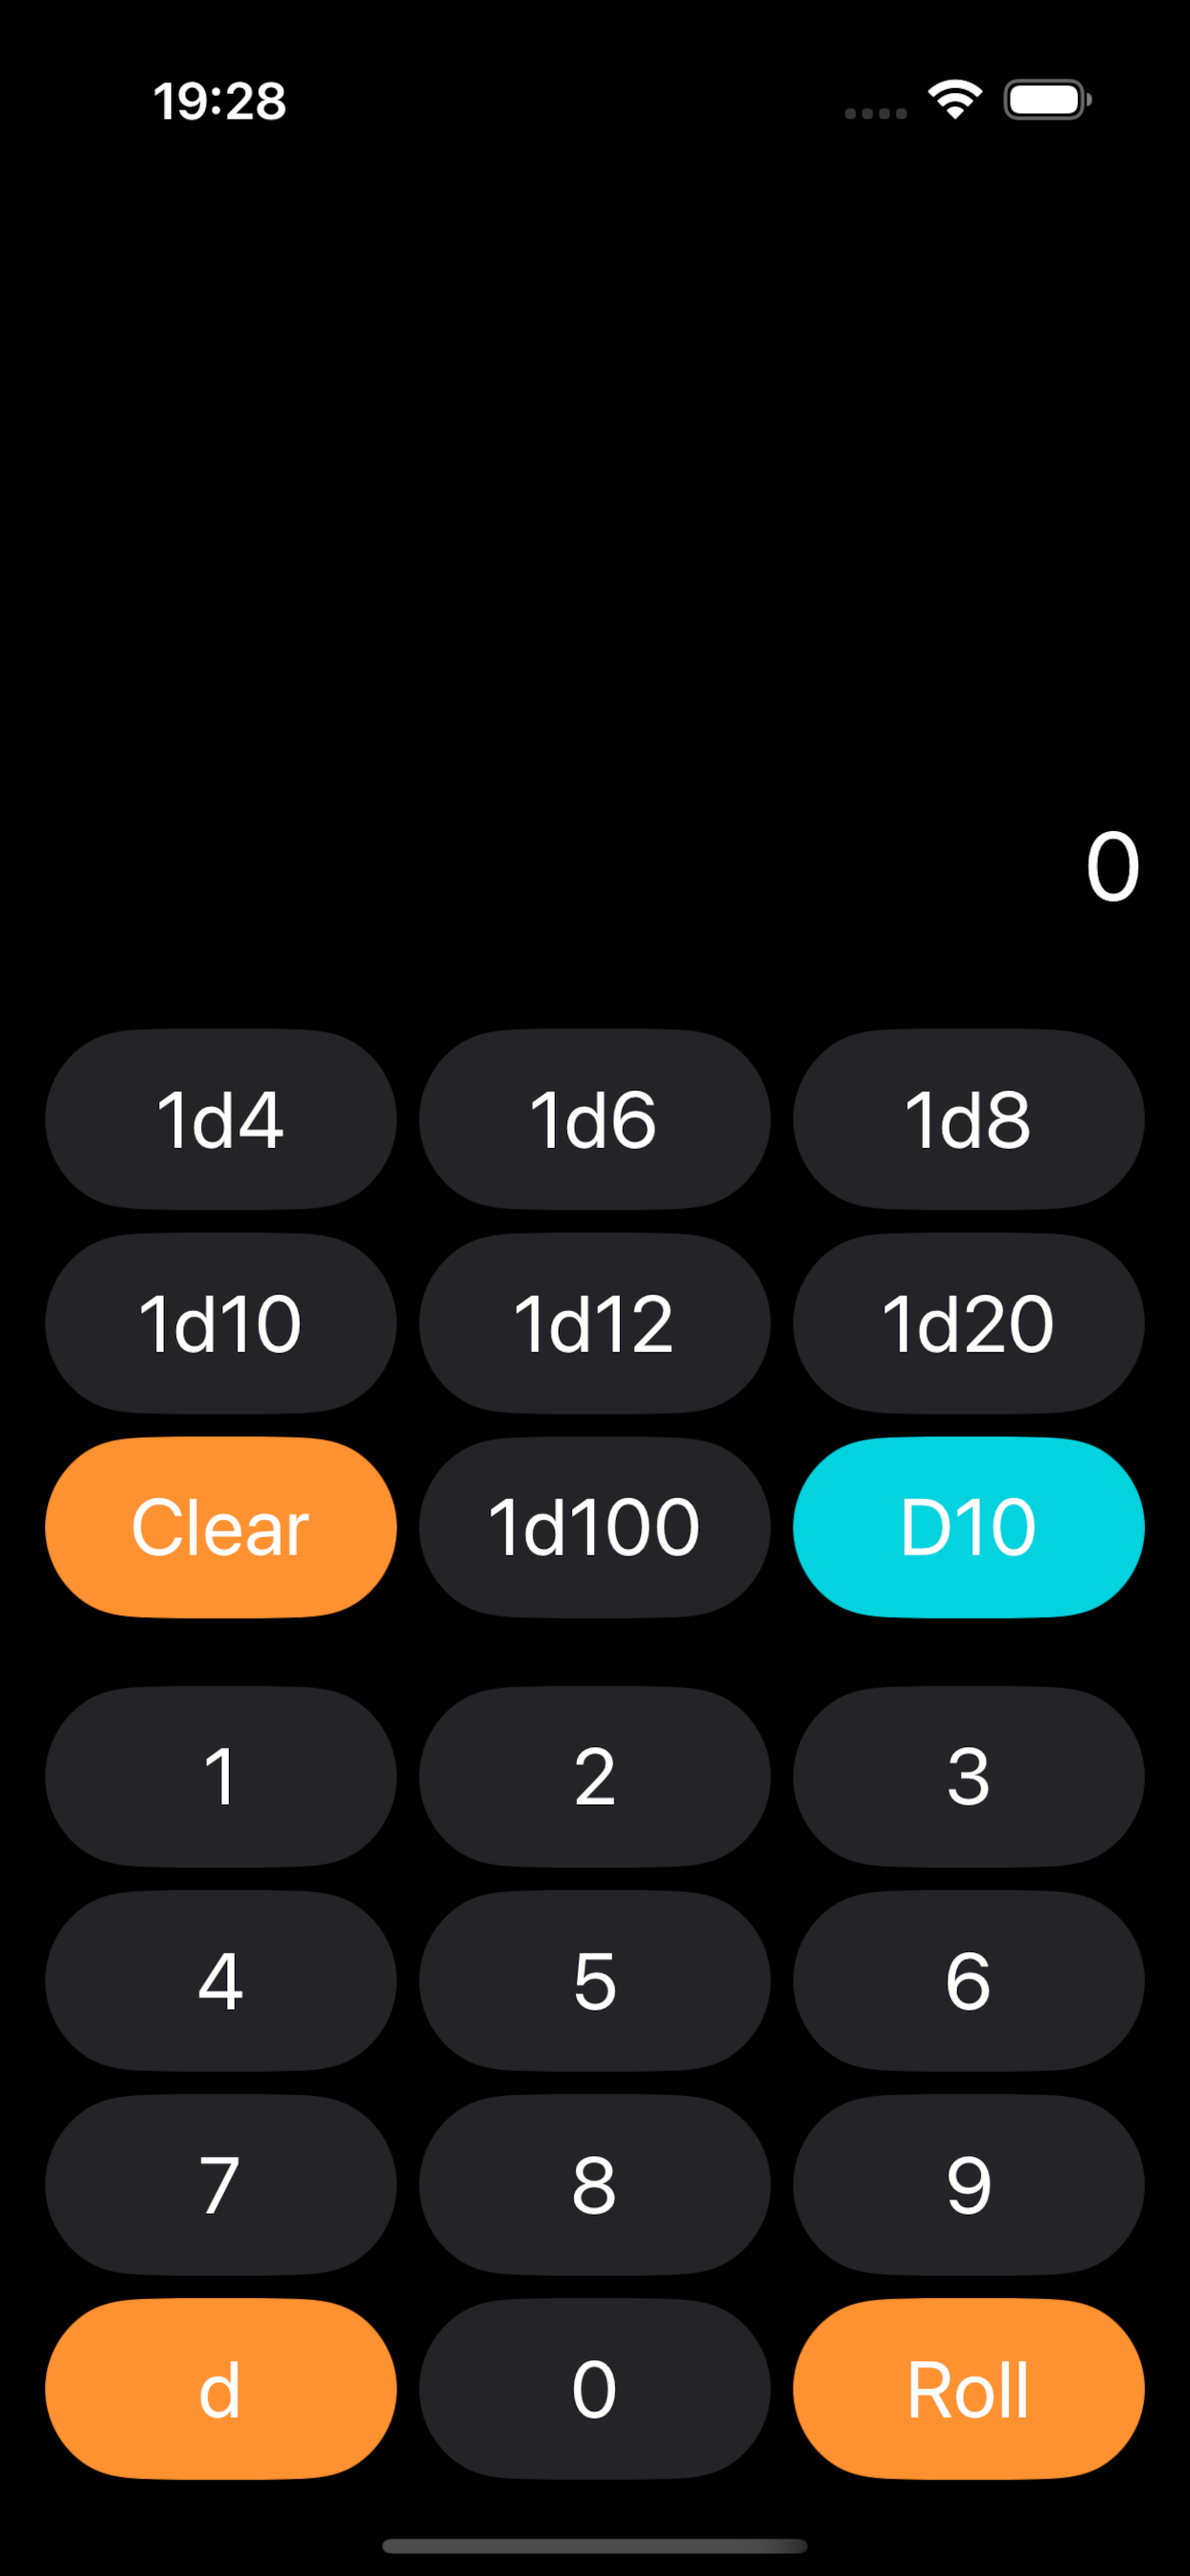
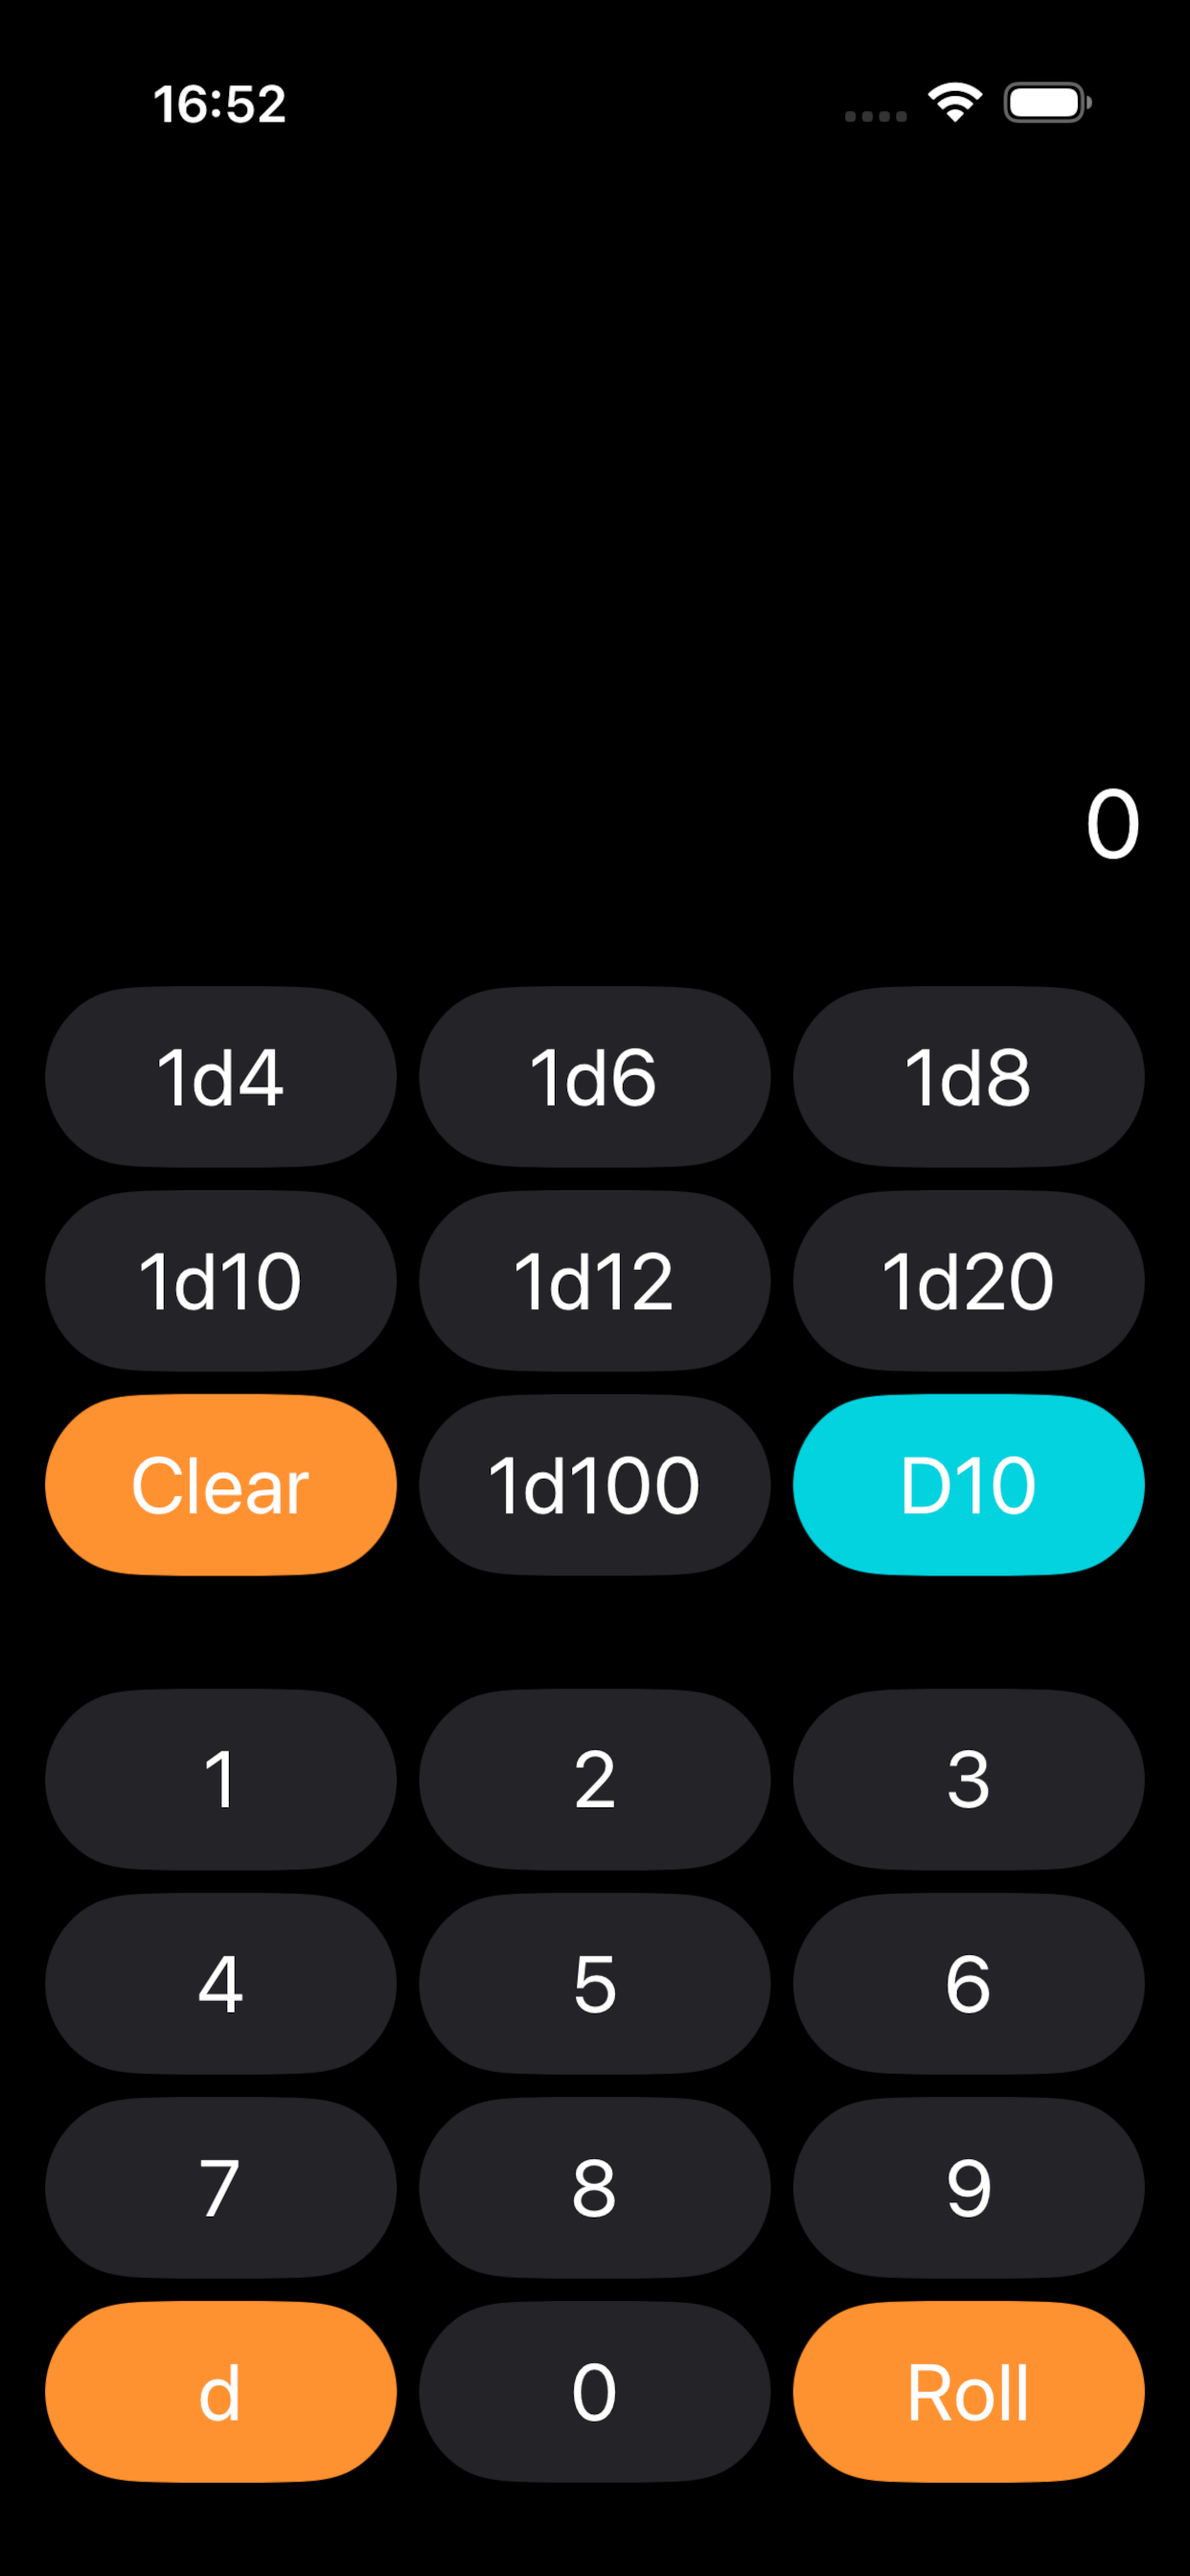
iPad support

diff --git a/makidice/MainView.swift b/makidice/MainView.swift
@@ -63,6 +63,10 @@ struct MainView: View
                 .padding(.vertical)
                 VStack
                 {
+                }
+                .padding(.vertical, 4)
+                VStack
+                {
                     HStack
                     {
                         NumberButton(1)

diff --git a/makidice/D10View.swift b/makidice/D10View.swift
@@ -70,6 +70,10 @@ struct D10View: View
                     DifficultyButton
                 }
                 .padding()
+                VStack
+                {
+                }
+                .padding(.vertical, 4)
                 HStack
                 {
                     NumberButton(1)
